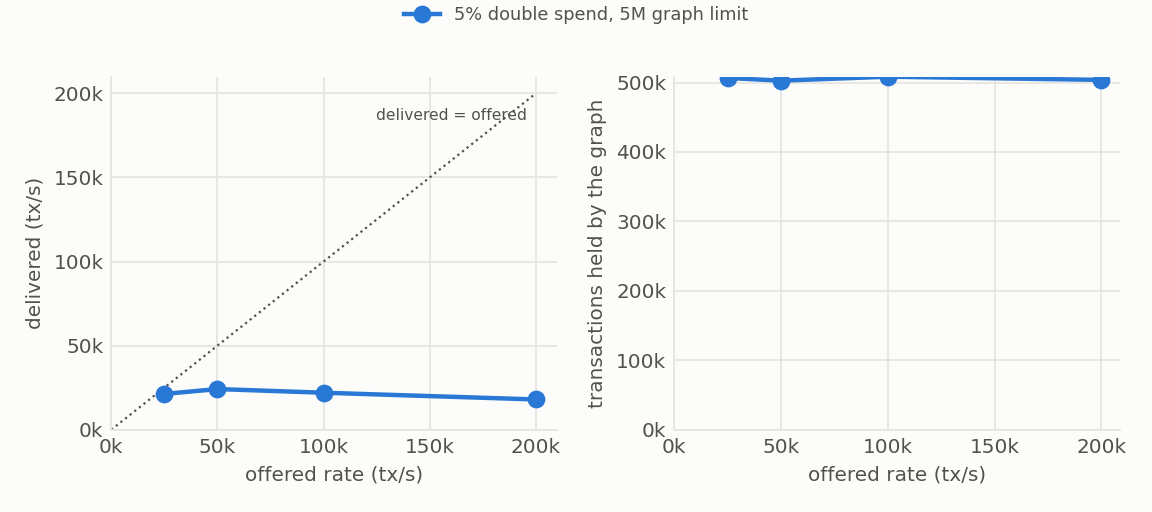
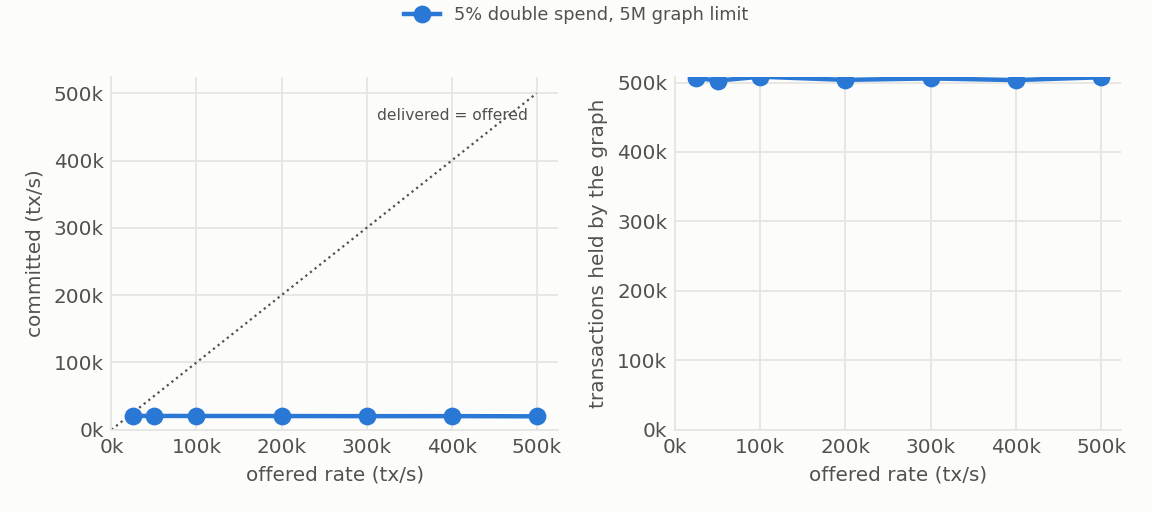
[eval] The conflict path's tablet dependence is continuous, and that does not overturn §6
The boundary test refuted the threshold attribution for the conflict path. At 88 tablets the in-window width
is 148 tx = 295 keys, so keys x tablets is 25,960 -- under the ~32,768 crossing, where the lookup should
batch into one round trip of some 20 ms. The insert still costs 1.170 s and capacity is 27,670 tps, measured
twice at two offered rates. A continuous product law fits instead: 40.4 us per key-tablet at 120 tablets and
45.1 at 88, within 6%, against a model predicting two orders of magnitude between them.

But §6's threshold result stands, and the section now says why both can hold. That model was fitted to
queryVersionsIfPresent on the blind-write workload and tested four for four, including a pair straddling the
boundary by 15%. The conflict path pays for something else as well: its exception handler rolls the whole
distributed transaction back, and an abort must reach every tablet the batch touched, which is continuous in
tablet count with no threshold to cross. That is a hypothesis about which per-tablet work dominates rather
than a retraction of either measurement, and it predicts the conflict path tracks tablets even at widths far
below the crossing.

Capacity follows with one constant term: throughput = concurrent batches x width / (calls x insert), giving
63 batches per VC at 120 tablets and 65 at 88. So ~64 batches per validator-committer are in flight whatever
[…]

diff --git a/eval/scripts/fx-figures.py b/eval/scripts/fx-figures.py
@@ -353,6 +353,19 @@ EXPERIMENTS = [
     dict(id="9c-ds5-rep3", figure="conflict-repeat", x=3, mode="curve",
          label="5% double spend, repeat 3", rates=[100000], vars=shape(2, 0, backref=0.05)),
 
+    # Cost per failing batch, or number of failing batches? No tablet count can tell those apart, because
+    # both scale the same way with keys x tablets. The conflict share does: at ~179 transactions a batch,
+    # 5% means essentially every batch takes the unique_violation path, 1% means 94% of them, and 0.1% only
+    # a quarter. If the cost is per failing batch, throughput should recover roughly as the failing fraction
+    # falls -- near-linearly by 0.1%. If it does not, the cost is attached to something else.
+    #
+    # Seeds chosen for where each is expected to land: 0.1% should recover several fold, 1% should sit near
+    # the 5% figure.
+    dict(id="9c-ds1", figure="9c", x=1, label="1% double spend", seed=30_000,
+         vars=shape(2, 0, backref=0.01)),
+    dict(id="9c-ds01", figure="9c", x=0.1, label="0.1% double spend", seed=150_000,
+         vars=shape(2, 0, backref=0.001)),
+
     # The claim the document needs and has never had: a 300-second hold at 8 tablets on a fresh
     # deployment. A probe met the bound there -- 181,031 offered, 172,150 and 172,112 committed in two
     # independent windows, 239 and 252 ms p99, 21% CPU -- but no hold has reproduced it, and the three that

diff --git a/eval/cluster-optimization-log.md b/eval/cluster-optimization-log.md
@@ -1396,11 +1396,44 @@ which is the only reason the 1.7 s was visible at all.
 **The mechanism.** `insert_ns_<ns>` attempts a bulk insert, and on any existing key its
 `EXCEPTION WHEN unique_violation` handler runs `key = ANY(_keys)` over *every* key in the batch. The
 whole database transaction then rolls back and the batch is redone — which is the 1.91 calls. That
-lookup is where the tablet split acts: 349 keys x 120 tablets = 41,939, over YugabyteDB's ~32,768
-batching threshold, so it issues one storage read per key. 349 reads at ~4 ms is 1.4 s against the
-measured 1.69 s. At 8 tablets it is 2,863, under the threshold, and the same workload runs
-124,181–130,233 tps. The predicted edge is 32,768/349 = **93 tablets**, which is the test that would
-falsify this: 88 should recover and 96 should not.
+lookup is where the tablet split acts. The first attribution was the batching threshold of §6 — 349 keys x
+120 tablets = 41,880, over ~32,768, so one storage read per key — which predicted that **88 tablets would
+recover and 96 would not**. The boundary test refuted it for this path. At 88 tablets the in-window width is
+148 tx = 295 keys, so the product is 25,960, comfortably *under* the crossing where the lookup should batch
+into a single round trip of some 20 ms. The insert still costs **1.170 s**, and capacity is 27,670 tps,
+measured twice at two offered rates.
+
+What fits this path is continuous in the same product rather than stepped at a value of it:
+
+| tablets | keys/batch | keys x tablets | insert | µs per key-tablet | capacity |
+|---|---|---|---|---|---|
+| 120 | 349 | 41,880 | 1.690 s | 40.4 | 20,400 |
+| 88 | 295 | 25,960 | 1.170 s | 45.1 | 27,670 |
+
+Within 6% on the constant, against a threshold model predicting two orders of magnitude between those rows.
+It also accounts for 8 tablets without a special case: 349 x 8 = 2,792 is a fourteenth of the work at 120,
+which is the order of the measured speed-up.
+
+**This does not overturn §6's threshold result, and the difference is which query is being paid for.** That
+model was fitted to `queryVersionsIfPresent` on the blind-write workload and tested four for four, including
+a pair straddling the boundary by 15%. Both can hold if the conflict path's cost is not dominated by
+batched-versus-unbatched reads at all — the exception handler also rolls the whole distributed transaction
+back, and an abort must reach every tablet the batch touched, which is continuous in tablet count with no
+threshold to cross. That is a hypothesis about *which* per-tablet work dominates, not a retraction of either
+measurement, and it predicts that the conflict path's cost should track tablets even at widths far below the
+crossing.
+
+Capacity then follows with one further term, and it is constant across both points:
+
+    throughput = (concurrent batches x width) / (calls per commit x insert latency)
+
+    120 tablets   20,400 x 1.91 x 1.690 / 175 = 376 batches = 63 per VC
+     88 tablets   27,670 x 1.78 x 1.170 / 148 = 389 batches = 65 per VC
+
+So the pipeline holds ~64 batches per validator-committer in flight whatever the tablet count, and capacity is
+set entirely by how long an insert attempt takes. **Recorded before that batch ran**: at 96 tablets, if width
+holds near 295 keys, insert ≈ 1.21 s and capacity ≈ 26,400 tps. Note it no longer separates the two models —
+96 was under the crossing too — so it tests only whether the per-key-tablet constant is constant.
 
 It is invisible on the headline workload because inserting only fresh keys never raises the exception,
 so nothing ever performs a multi-key lookup. A back-reference is the first thing that does.
